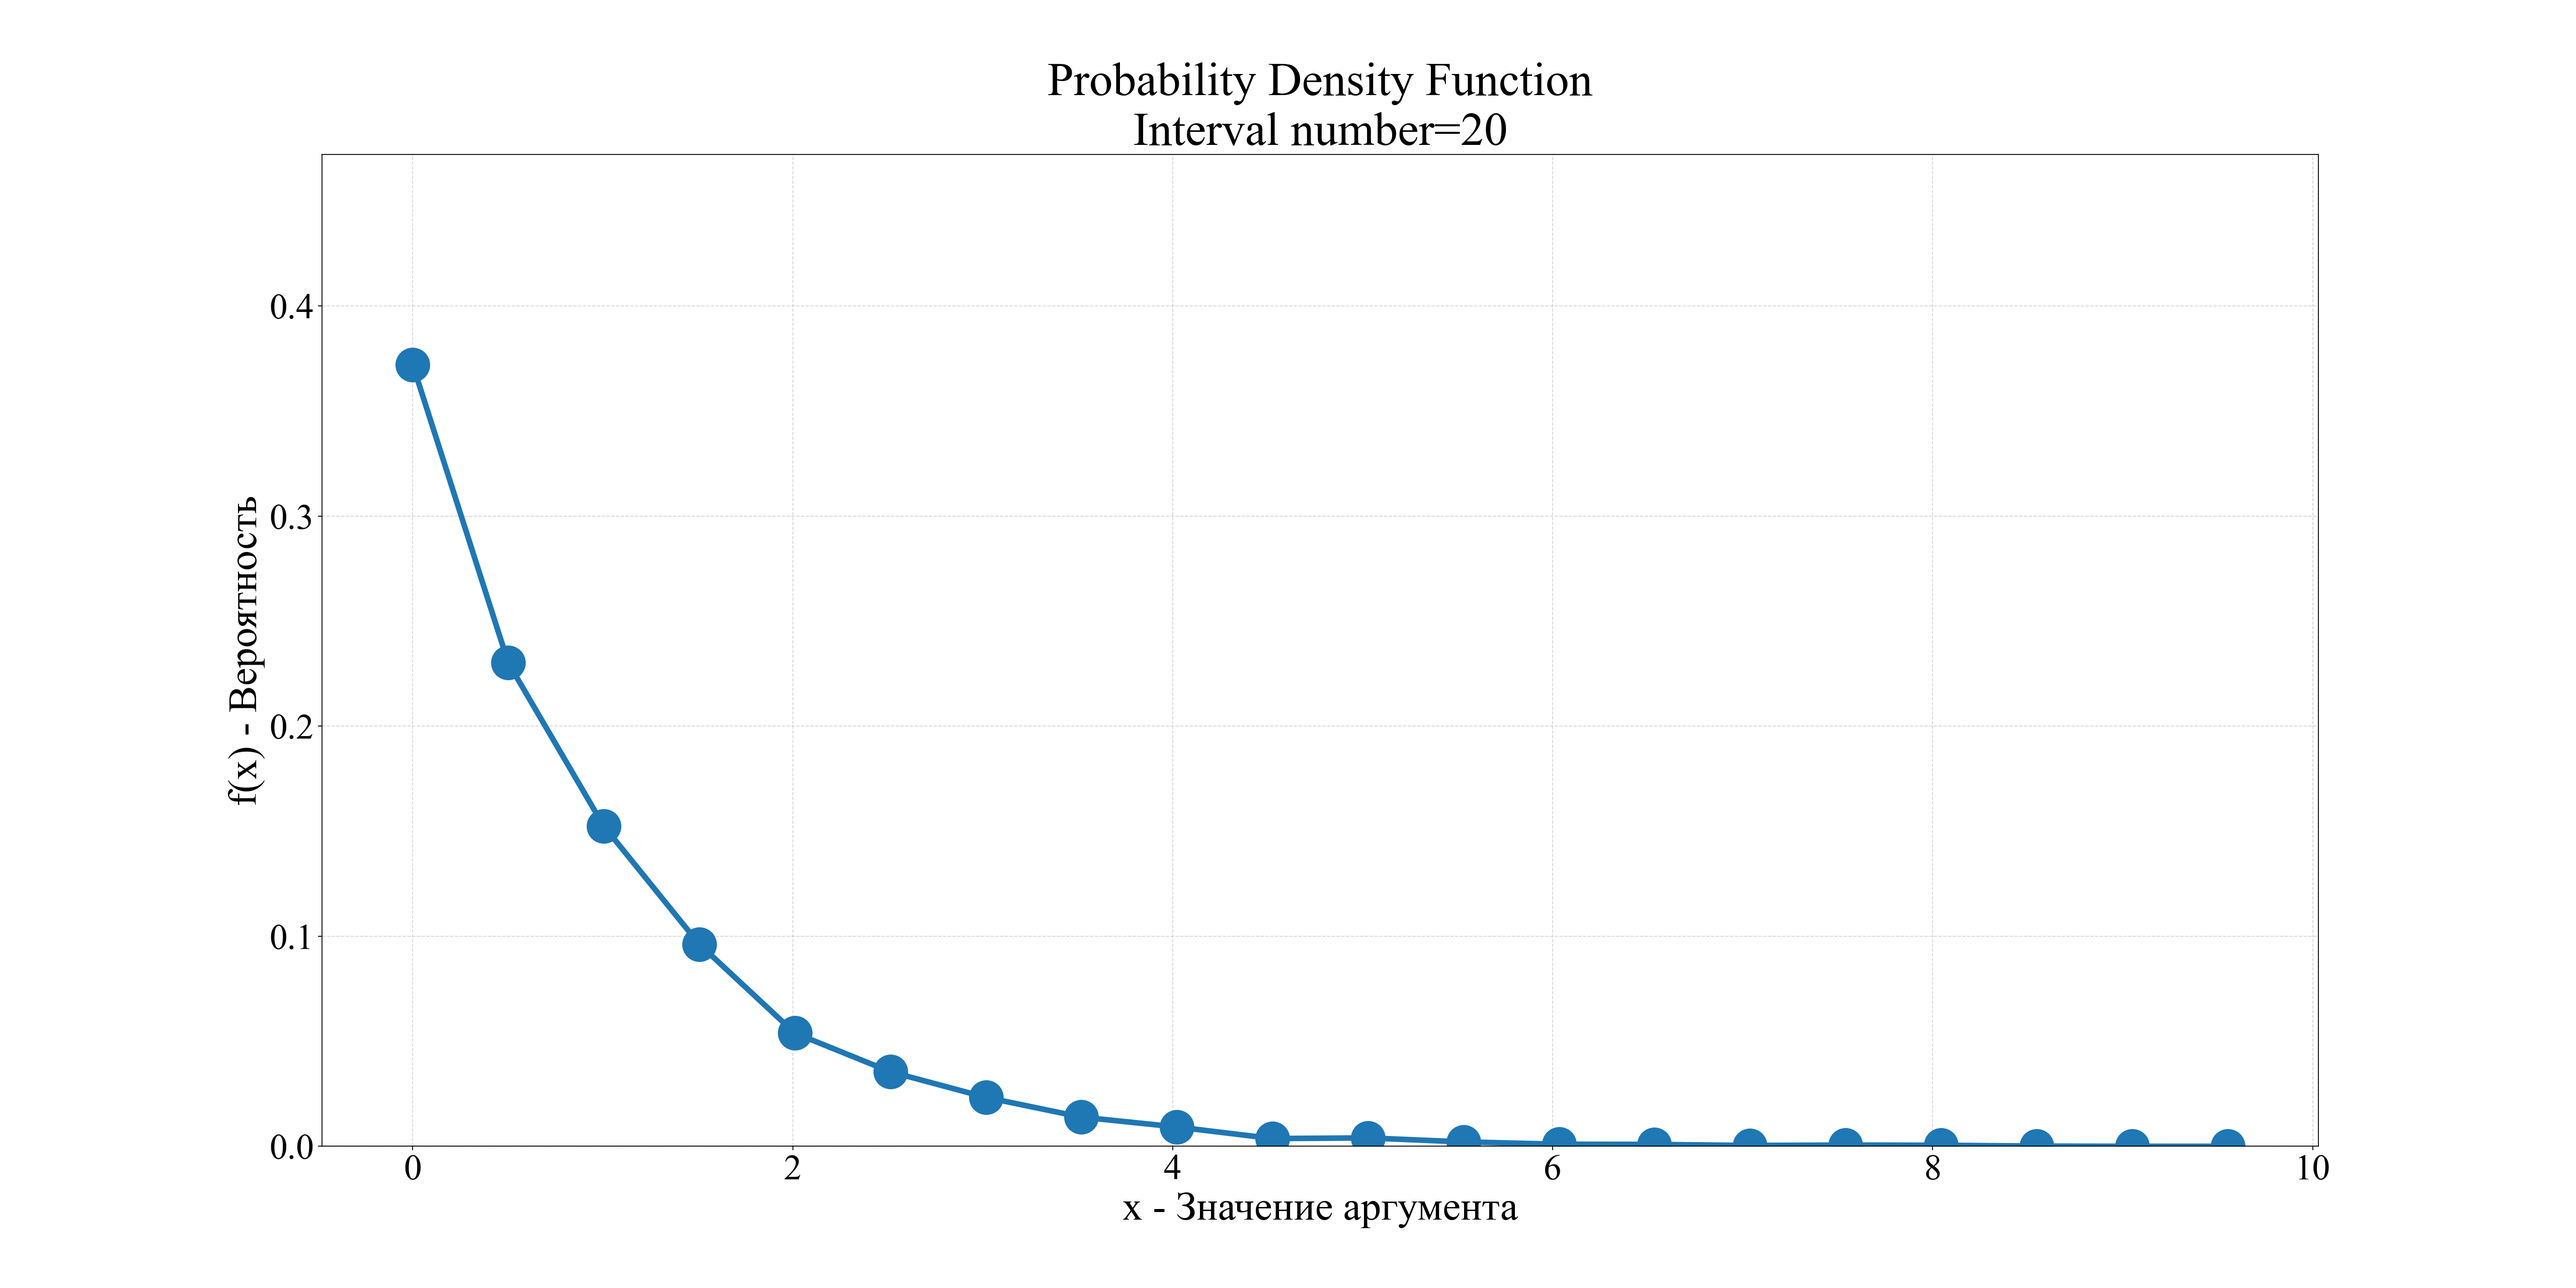
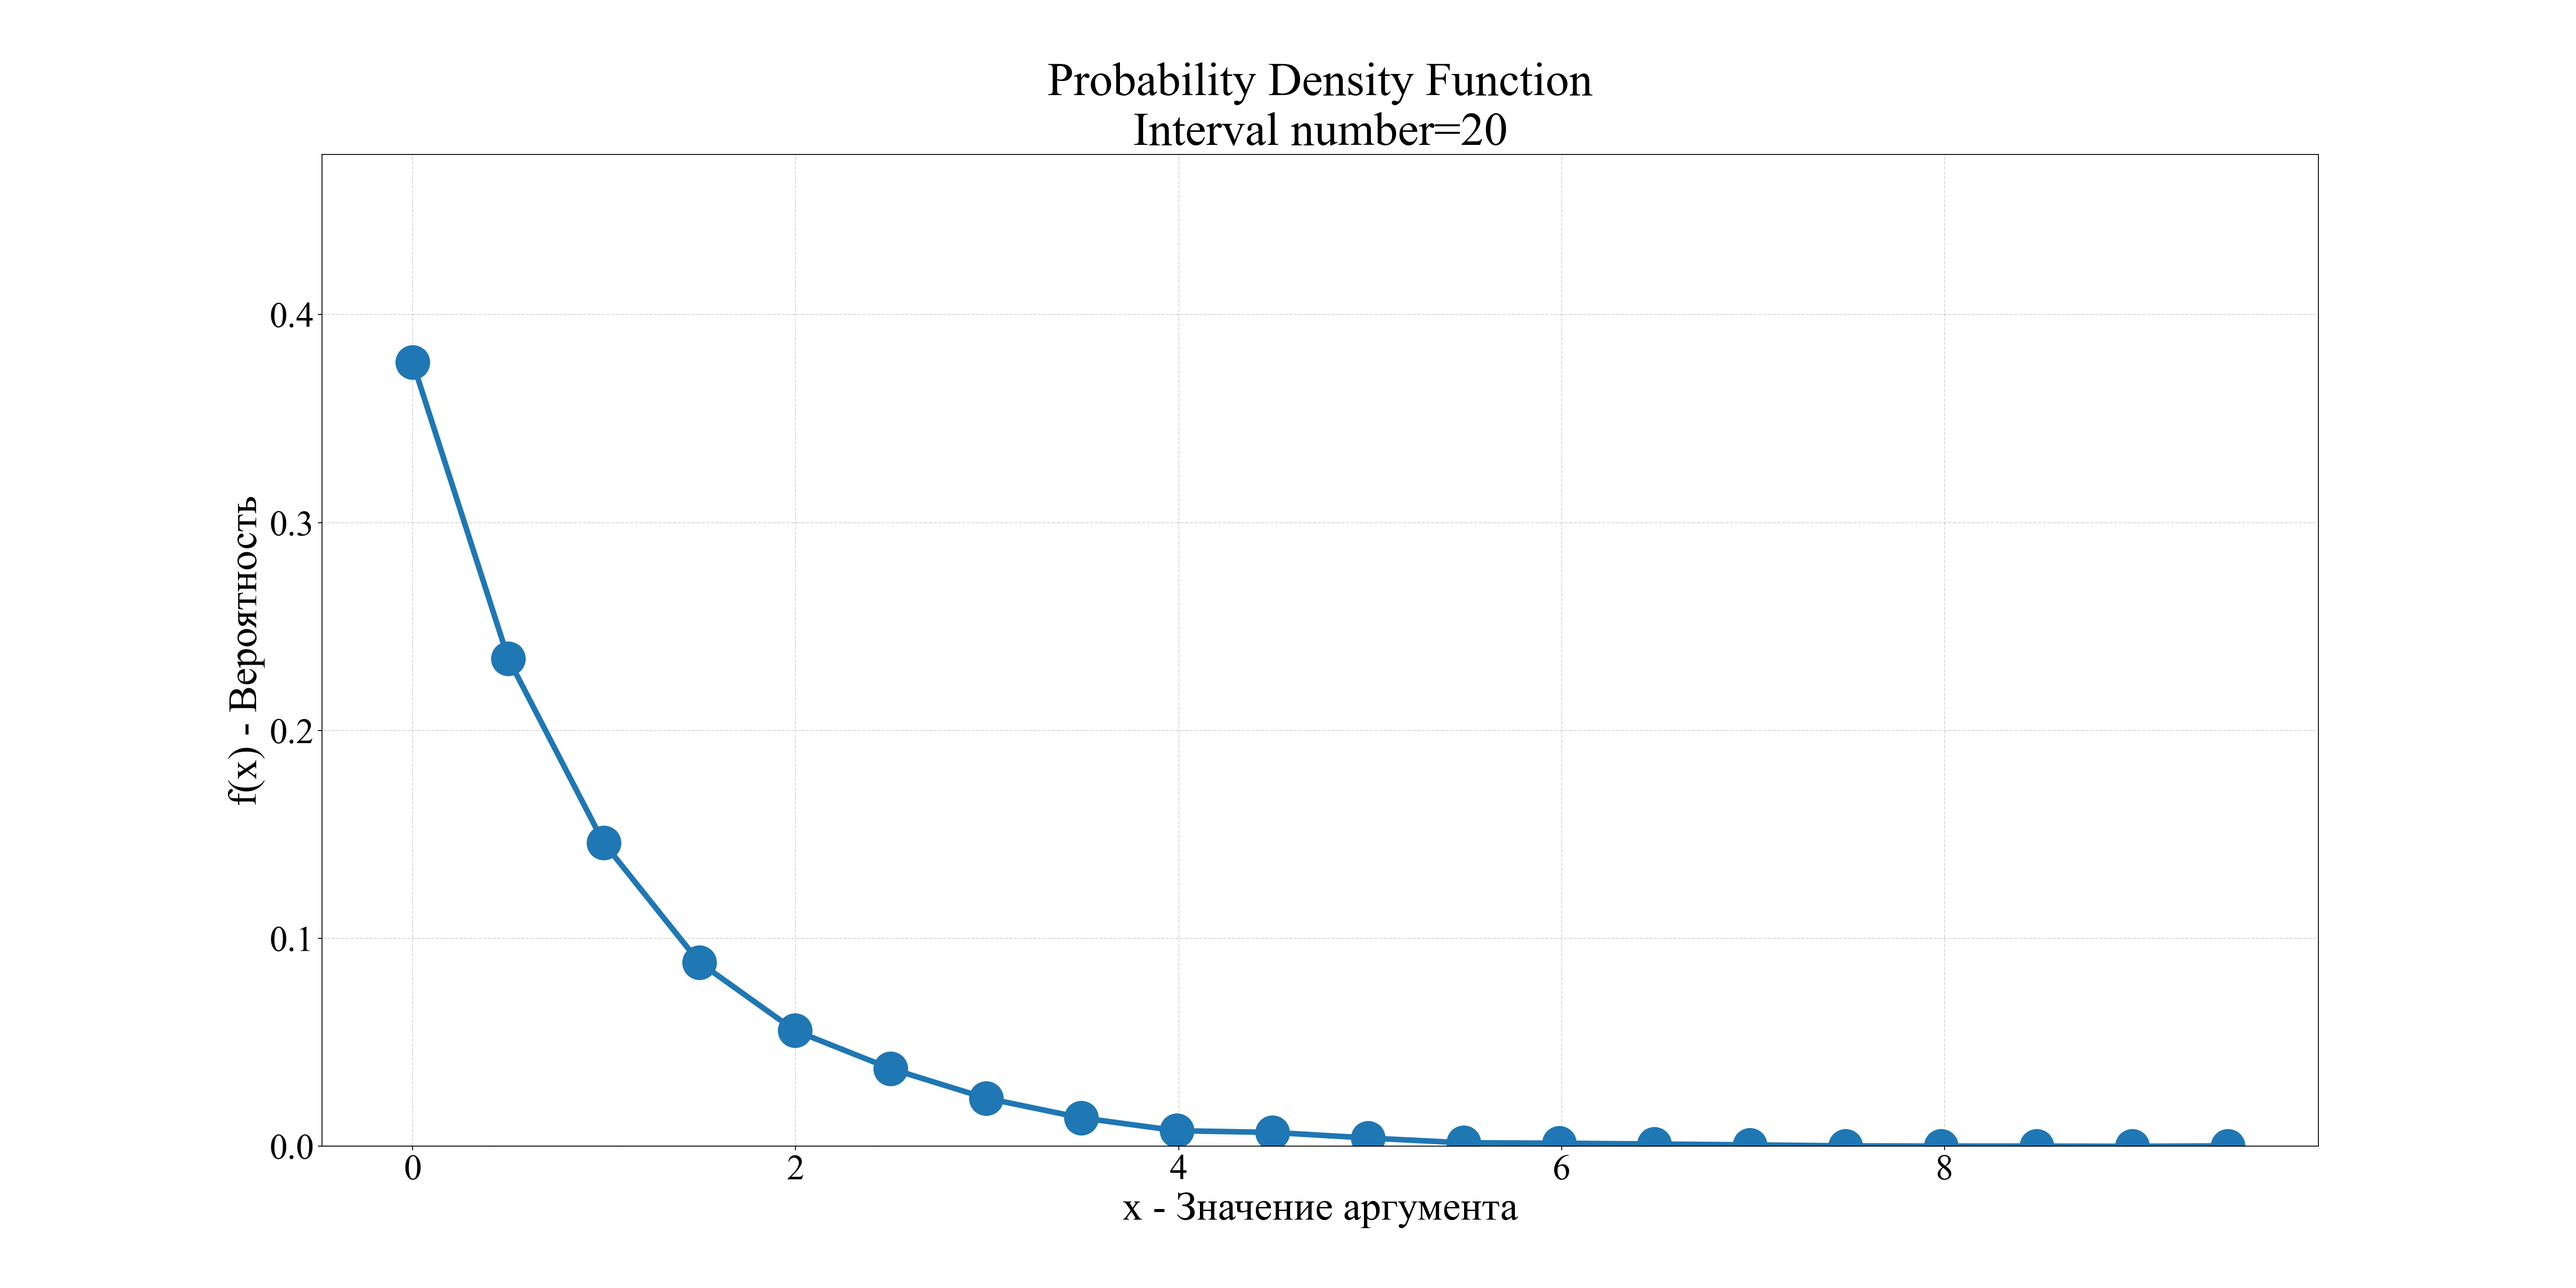
增加 lab3+ 的韦伯分布  【2.6】lab3+ Распределение Вейбулла

diff --git a/004 - lab3/main.py b/004 - lab3/main.py
@@ -9,7 +9,14 @@
 import st_method
 import numpy as np
 import irandom
+import matplotlib.pyplot as plt
 
+from scipy.stats import weibull_min
+
+TITLE_FONT_SIZE = 36
+LABEL_FONT_SIZE = 36
+TICK_FONT_SIZE = 32
+FONT = 'Times New Roman'
 
 def uniform_distribution():
     """
@@ -225,7 +232,8 @@ def exponential_distribution(arr_exp: np.ndarray, img_save_fold: str):
     st_method.plot_cdf(cdf_ndarry=arr_cdf,
                        kind='plot',
                        x_tick_min=0,
-                       x_tick_max=arr_exp.max(),
+                       # x_tick_max=arr_exp.max(),
+                       x_tick_max=5,
                        save_path=img_save_fold + 'cdf_' + arr_cdf.size.__str__() + '.png')
 
     cut_num = 21
@@ -320,6 +328,67 @@ def student_t_distribution(arr_exp: np.ndarray, img_save_fold: str):
     print('-' * 50, '\n')
     return
 
+
+def weibull_distribution(arr_weibull: np.ndarray, img_save_fold: str):
+    """
+    CN: 韦伯分布
+    EN: Weibull distribution
+    RU: Распределение Вейбулла
+    :param arr_weibull: 具有韦伯分布的 numpy.ndarry
+    :param img_save_fold: 图形存储的【文件夹】
+    :return: None
+    """
+    M = arr_weibull.mean()
+    D = arr_weibull.var()
+
+    print('>' * 50, '\n',
+          '【2.6】Распределение Вейбулла:\n',
+          '\tM= ', M, '\n',
+          '\tD= ', D, '\n')
+
+    arr_cdf = st_method.get_cdf(arr_weibull)
+    st_method.plot_cdf(cdf_ndarry=arr_cdf,
+                       kind='plot',
+                       x_tick_min=0,
+                       x_tick_max=arr_weibull.max(),
+                       save_path=img_save_fold + 'cdf_' + arr_cdf.size.__str__() + '.png')
+
+    cut_num = 21
+    arr_pdf = st_method.get_pdf(arr_weibull, cut_num=cut_num)
+    st_method.plot_pdf(pdf_ndarry=arr_pdf,
+                       kind='plot',
+                       x_tick_min=arr_weibull.min(),
+                       x_tick_max=arr_weibull.max(),
+                       y_tick_min=0,
+                       y_tick_max=arr_pdf.max() + 0.1,
+                       cut_num=cut_num,
+                       save_path=img_save_fold + 'pdf_' + (arr_pdf.size + 1).__str__() + '.png')
+
+    print('-' * 50, '\n')
+    return
+
+
+def plot_weibull_hist(arr_weibull: np.ndarray, save_path: str):
+    """
+    绘制直方图并保存
+    :param arr_weibull: 具有韦伯分布的数组
+    :param save_path: 图像存储路径
+    :return:
+    """
+    plt.figure(figsize=(18, 10), dpi=100)
+    plt.hist(x=arr_weibull, bins=10, density=True)
+    plt.grid(linestyle='--', alpha=0.5)
+    plt.title('Распределение Вейбулла \n'
+              'Section=' + arr_weibull.max().__str__(),
+              fontdict={'family': FONT, 'size': TITLE_FONT_SIZE})
+    plt.xlabel('x', fontdict={'family': FONT, 'size': LABEL_FONT_SIZE})
+    plt.ylabel('P(x)', fontdict={'family': FONT, 'size': LABEL_FONT_SIZE})
+    plt.xticks(fontproperties=FONT, size=TICK_FONT_SIZE)
+    plt.yticks(fontproperties=FONT, size=TICK_FONT_SIZE)
+    # plt.xlim(0, 15)
+    plt.savefig(save_path)
+    plt.show()
+
 if __name__ == '__main__':
     # 【2.1】РАВНОМЕРНОЕ РАСПРЕДЕЛЕНИЕ (дискретное)
     # uniform_distribution()
@@ -337,5 +406,14 @@ if __name__ == '__main__':
     # chi_square_distribution(irandom.irnchis(n=10, size=10000), './result/【2.4】Хи-Квадрат Распределение/')
 
     # 【2.5】Распределение Стьюдента
-    student_t_distribution(irandom.irnstud(n=10, size=10000), './result/【2.5】Распределение Стьюдента/')
+    # student_t_distribution(irandom.irnstud(n=10, size=10000), './result/【2.5】Распределение Стьюдента/')
+
+    # 【2.6】lab3+ Распределение Вейбулла
+    arr_weibull = irandom.irnweibull(k=5, l=1, size=10000)
+    weibull_distribution(arr_weibull, './result/【2.6】Распределение Вейбулла/')
+    plot_weibull_hist(arr_weibull=arr_weibull,
+                      save_path='./result/【2.6】Распределение Вейбулла/hist_weibull.png')
+
+
+
     pass

diff --git a/004 - lab3/irandom.py b/004 - lab3/irandom.py
@@ -129,7 +129,7 @@ def irngeo_3(p: float, size: int) -> np.ndarray:
 
     for i in range(size):
         i_uniform = np.random.uniform(low=0, high=1)
-        j = round(math.log(i_uniform) / math.log(1 - p)) + 1
+        j = int(math.log(i_uniform, math.e) / math.log(p, math.e) + 1)
         arr_irngeo.append(j)
 
     return np.array(arr_irngeo)
@@ -156,7 +156,7 @@ def irnpoi(mu: int, size: int) -> np.ndarray:
                 i_uniform -= p_t
                 p_t *= (mu / m)
                 m += 1
-            arr_irnpoi.append(m)
+            arr_irnpoi.append(m - 1)
         else:
             m = np.random.normal(loc=mu, scale=mu, size=1)
             arr_irnpoi.append(m)
@@ -185,7 +185,7 @@ def irnpsn(mu: int, size: int) -> np.ndarray:
                 i_uniform = np.random.uniform(low=0, high=1)
                 p_t *= i_uniform
                 m += 1
-            arr_irnpsn.append(m)
+            arr_irnpsn.append(m - 1)
         else:
             m = np.random.normal(loc=mu, scale=mu, size=1)
             arr_irnpsn.append(m)
@@ -235,7 +235,7 @@ def irnnrm_2(size: int) -> np.ndarray:
     return np.array(arr_irnnrm)
 
 
-def irnexp(beta: int, size: int) -> np.ndarray:
+def irnexp(beta: float, size: int) -> np.ndarray:
     """
     CN：指数分布
     RU：Экспоненциальное распределение
@@ -301,3 +301,51 @@ def irnstud(n: int, size: int) -> np.ndarray:
         arr_irnstud.append(var)
 
     return np.array(arr_irnstud)
+
+
+def irnweibull(k: float, l: float, size: int) -> np.ndarray:
+    """
+    CN: 韦伯分布
+    EN: Weibull distribution
+    RU: Распределение Вейбулла
+    :param k: m＞0是形状参数（shape parameter）
+    :param l: λ＞0是比例参数（scale parameter）
+    :param size: 数组大小
+    :return: 具有韦伯分布的 numpy.ndarry
+    """
+    if size <= 0 or k < 0 or l < 0:
+        raise ValueError
+
+    arr_weibull = []
+    for i in range(size):
+        x = np.random.uniform(low=0, high=1)
+        # var = m \
+        #       * (lbd ** m)\
+        #       * (x ** (m - 1))\
+        #       * (math.e ** -(lbd * x) ** m)
+        var = l ** (-1) \
+              * (-math.log(x)) ** (1 / k)
+        arr_weibull.append(var)
+
+    return np.array(arr_weibull)
+
+
+def irnrayleigh(mu: float, size: int) -> np.ndarray:
+    """
+    CN: 瑞利分布
+    EN: Rayleigh distribution
+    RU: распределения Релея
+    :param mu: 参数
+    :param size: 数组大小
+    :return: 具有瑞利分布的 numpy.ndarry
+    """
+    if size <= 0 or mu < 0:
+        raise ValueError
+
+    arr_rayleigh = []
+    for i in range(size):
+        i_uniform = np.random.uniform(low=0, high=1)
+        var = mu * math.sqrt(2 * i_uniform)
+        arr_rayleigh.append(var)
+
+    return np.array(arr_rayleigh)
